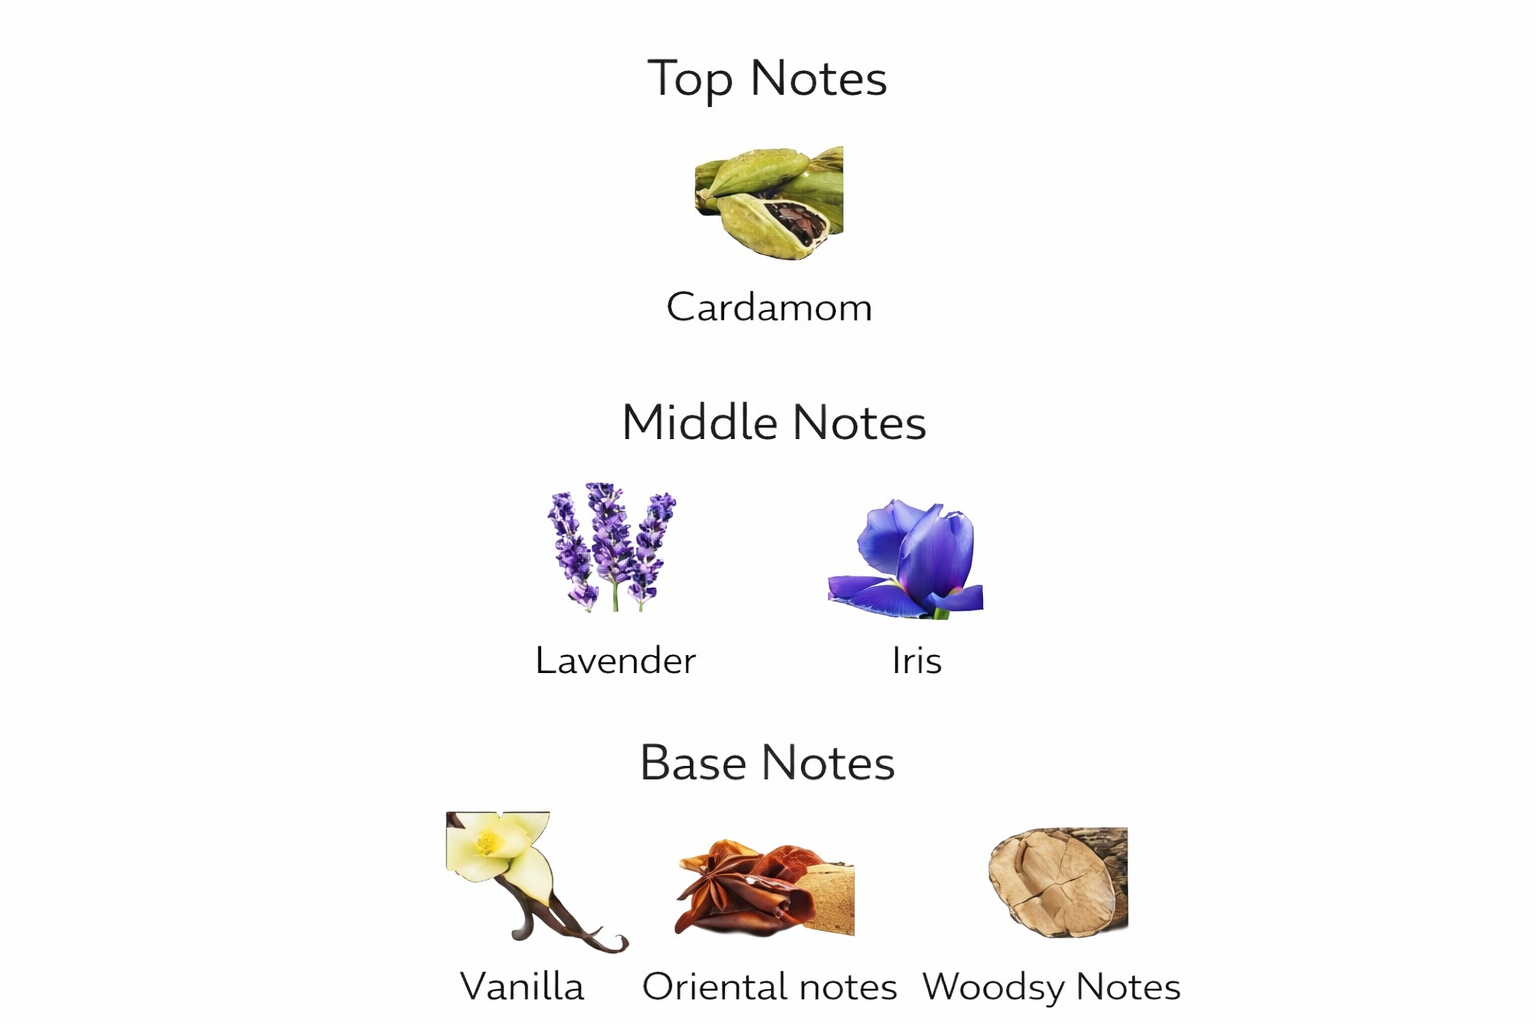
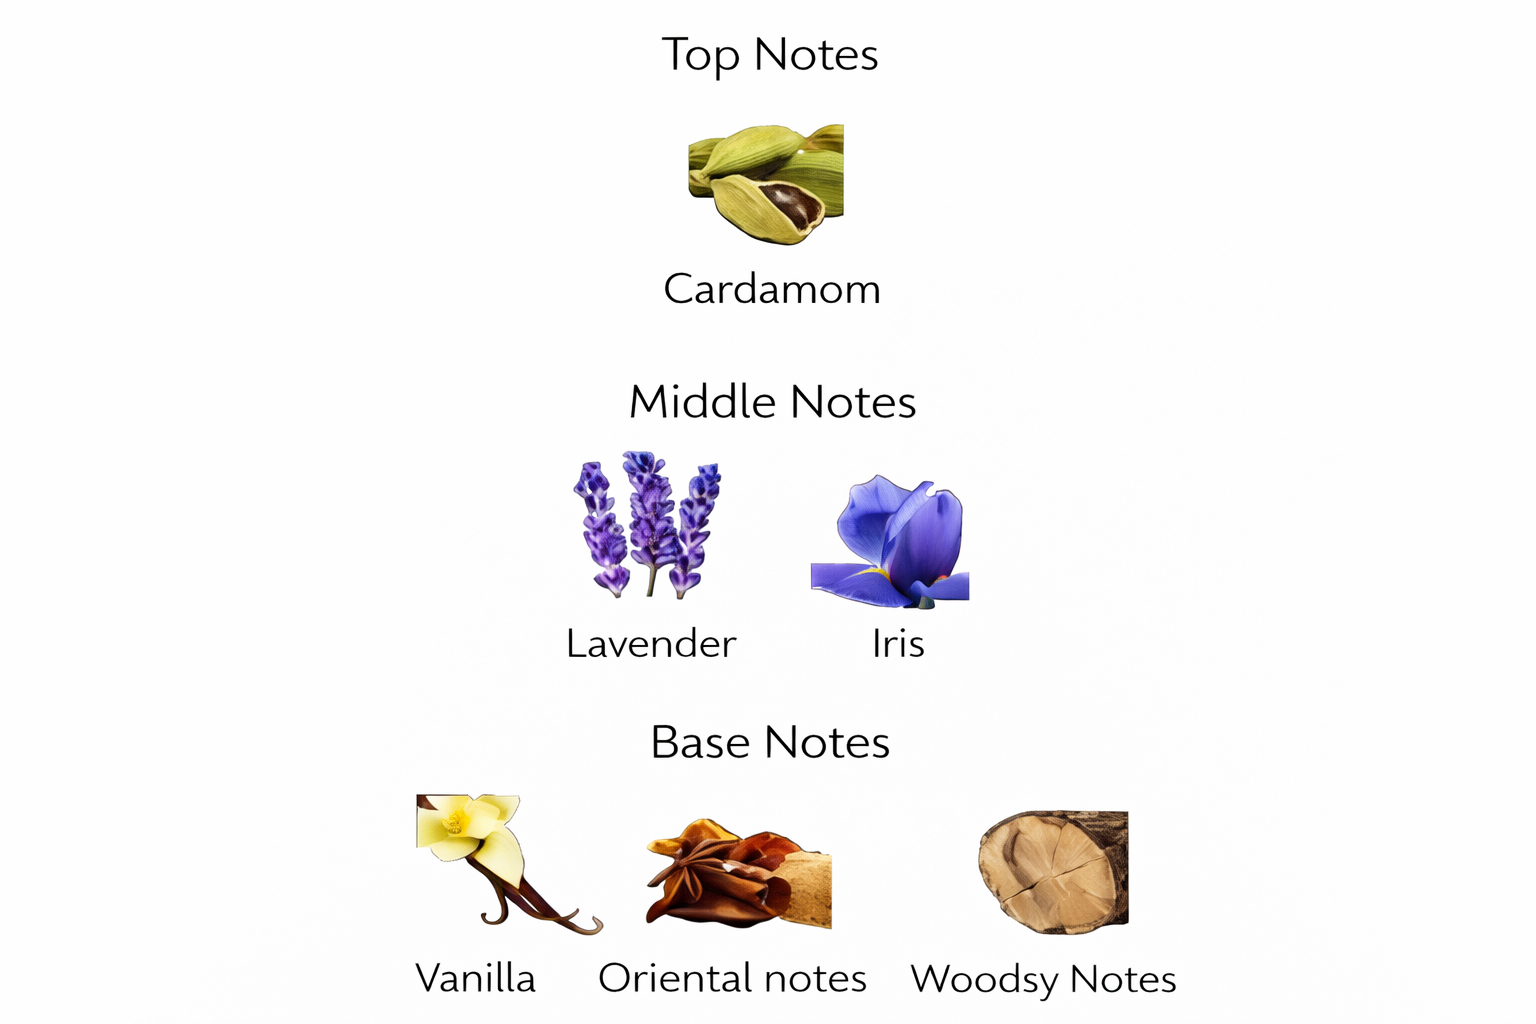
Changes

diff --git a/src/data/products.ts b/src/data/products.ts
@@ -675,6 +675,7 @@ export const products: Product[] = [
       heart: ['Coffee', 'Jasmine'],
       base: ['Vanilla', 'Patchouli', 'Cedarwood'],
     },
+    scentNotesImage: '/images/scent-notes/black-opium.png',
     image: 'https://profparfums.store/cdn/shop/files/ysl-black-opium-3914424.png?v=1768068488&width=800',
     affiliateUrl: 'https://profparfums.store/products/ysl-black-opium',
     inStock: true,
@@ -697,6 +698,7 @@ export const products: Product[] = [
       heart: ['Iris', 'Leather'],
       base: ['Vanilla', 'Woody Notes', 'Amber'],
     },
+    scentNotesImage: '/images/scent-notes/le-male.png',
     image: 'https://profparfums.store/cdn/shop/files/jean-paul-gaultier-le-male-le-parfum-9203208.png?v=1768068486&width=800',
     affiliateUrl: 'https://profparfums.store/products/xerjoff-alexandria-ii-anniversary',
     inStock: true,
@@ -721,6 +723,7 @@ export const products: Product[] = [
       heart: ['Coconut', 'Tonka Bean'],
       base: ['Sandalwood', 'Musk'],
     },
+    scentNotesImage: '/images/scent-notes/le-beau-le-parfum.png',
     image: 'https://profparfums.store/cdn/shop/files/jpg_le_beau_edt_bg_removed_1_1.png?v=1768068487&width=800',
     affiliateUrl: 'https://profparfums.store/products/jpg-le-beau-edt',
     inStock: false,

diff --git a/src/components/product/ScentNotesVisual.tsx b/src/components/product/ScentNotesVisual.tsx
@@ -1,7 +1,7 @@
 import { motion } from 'framer-motion';
 
 // Cache bust version - increment when updating images
-const SCENT_NOTES_VERSION = 'v12';
+const SCENT_NOTES_VERSION = 'v13';
 
 interface ScentNotesVisualProps {
   scentNotes: {
